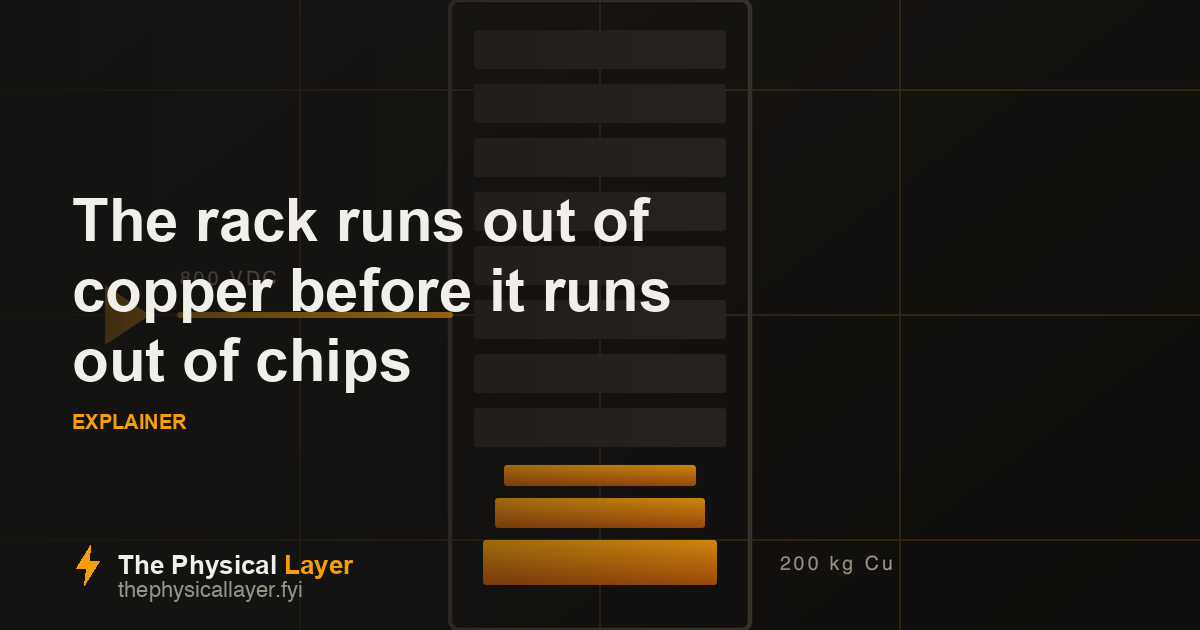
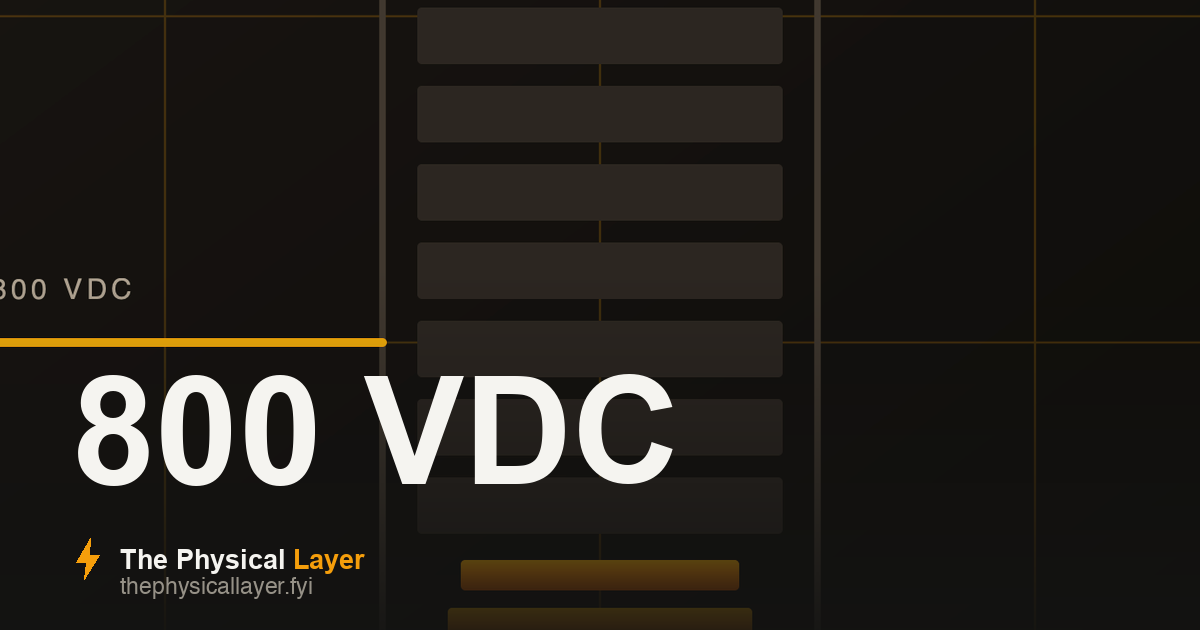
Social cards redesigned to read at LinkedIn thumbnail size
LinkedIn renders link previews at 128x72, where a full title is illegible.
Cards now lead with a 1-3 word label at ~150px over a zoomed, contrast-boosted
diagram, so the card reads at thumbnail size and still works large.

diff --git a/src/content.config.ts b/src/content.config.ts
@@ -6,7 +6,8 @@ const journal = defineCollection({
     title: z.string(),
     date: z.coerce.date(),
     summary: z.string(),                       // plain-English one-liner
-    category: z.string().default('Explainer'), // small label under the card, e.g. Explainer · Note · Analysis
+    category: z.string().default('Explainer'),
+    shortLabel: z.string().optional(),   // 1-3 words, shown huge on the social card so it reads at thumbnail size // small label under the card, e.g. Explainer · Note · Analysis
     cover: z.string().optional(),              // /covers/name.svg or .jpg — optional, a styled fallback renders without it
     tags: z.array(z.string()).default([]),
     draft: z.boolean().default(false),

diff --git a/brand/make-og.py b/brand/make-og.py
@@ -1,44 +1,50 @@
 #!/usr/bin/env python3
-"""Regenerate public/og/<slug>.png from each piece's cover diagram.
-Run from the project root:  DYLD_FALLBACK_LIBRARY_PATH=/opt/homebrew/lib python3 brand/make-og.py"""
+"""Social cards, designed to stay legible at LinkedIn's 128x72 thumbnail.
+Run: DYLD_FALLBACK_LIBRARY_PATH=/opt/homebrew/lib python3 brand/make-og.py"""
 import cairosvg, io, glob, re, os
-from PIL import Image, ImageDraw, ImageFont
-W,H=1200,630; DARK=(19,19,18); AMBER=(245,158,11); WHITE=(240,239,234); MUTED=(150,145,135)
+from PIL import Image, ImageDraw, ImageFont, ImageEnhance
+W,H=1200,630; DARK=(19,19,18); AMBER=(245,158,11); WHITE=(245,244,240); MUTED=(150,145,135)
 TF='/System/Library/Fonts/Supplemental/Arial Bold.ttf'; SF='/System/Library/Fonts/Helvetica.ttc'
 def fm(p):
     s=open(p).read().split('---')[1]
     g=lambda k:(re.search(rf'^{k}:\s*"?(.+?)"?\s*$',s,re.M) or [None,''])[1]
-    return g('title'),g('cover'),g('category')
-def wrap(d,t,f,mw):
-    out=[];cur=''
-    for w in t.split():
-        x=(cur+' '+w).strip()
-        if d.textlength(x,font=f)<=mw: cur=x
-        else: out.append(cur);cur=w
-    if cur: out.append(cur)
-    return out
+    return g('title'),g('cover'),g('shortLabel'),g('category')
 def bolt(d,cx,cy,s,fill):
     pts=[(.55,0),(.28,.45),(.48,.45),(.43,.77),(.72,.32),(.53,.32),(.55,0)]
     d.polygon([(cx+(x-.5)*s,cy+(y-.4)*s) for x,y in pts],fill=fill)
 os.makedirs('public/og',exist_ok=True)
 for md in sorted(glob.glob('src/content/journal/*.md')):
-    pid=os.path.basename(md)[:-3]; title,cover,cat=fm(md)
+    pid=os.path.basename(md)[:-3]; title,cover,label,cat=fm(md)
+    label=(label or cat or 'JOURNAL').upper()
     card=Image.new('RGB',(W,H),DARK)
     if cover and os.path.exists('public'+cover):
-        art=Image.open(io.BytesIO(cairosvg.svg2png(url='public'+cover,output_width=1600,output_height=1200))).convert('RGB')
-        r=max(W/art.width,H/art.height); art=art.resize((max(W,int(art.width*r)),max(H,int(art.height*r))),Image.LANCZOS)
-        l=(art.width-W)//2; t=(art.height-H)//2; card.paste(art.crop((l,t,l+W,t+H)),(0,0))
+        # render big and zoom in: the motif must read at 128px wide
+        art=Image.open(io.BytesIO(cairosvg.svg2png(url='public'+cover,output_width=2000,output_height=1500))).convert('RGB')
+        r=max(W/art.width,H/art.height)*1.45          # zoom past fill so the graphic is large
+        art=art.resize((int(art.width*r),int(art.height*r)),Image.LANCZOS)
+        l=(art.width-W)//2; t=int((art.height-H)*0.46)
+        art=art.crop((l,t,l+W,t+H))
+        art=ImageEnhance.Contrast(art).enhance(1.18)  # survive heavy downscaling
+        card.paste(art,(0,0))
+    # bottom scrim only: keeps the graphic visible, guarantees the word reads
     sc=Image.new('L',(W,H),0); sd=ImageDraw.Draw(sc)
-    for x in range(W): sd.line([(x,0),(x,H)],fill=int(238*(max(0.0,1.0-(x/(W*.80)))**1.25)))
-    card=Image.composite(Image.new('RGB',(W,H),DARK),card,sc); d=ImageDraw.Draw(card)
-    for size in (60,56,52,48,44,40):
-        f=ImageFont.truetype(TF,size); lines=wrap(d,title,f,660)
-        if len(lines)<=4: break
-    y=H//2-(len(lines)*(size+10))//2-24
-    for ln in lines: d.text((72,y),ln,font=f,fill=WHITE); y+=size+10
-    d.text((72,y+14),(cat or 'Journal').upper(),font=ImageFont.truetype(TF,20),fill=AMBER)
-    bolt(d,88,H-64,52,AMBER); bf=ImageFont.truetype(TF,26); mf=ImageFont.truetype(SF,22)
-    d.text((118,H-80),"The Physical",font=bf,fill=WHITE)
-    d.text((118+d.textlength("The Physical ",font=bf),H-80),"Layer",font=bf,fill=AMBER)
-    d.text((118,H-50),"thephysicallayer.fyi",font=mf,fill=MUTED)
-    card.save(f'public/og/{pid}.png',optimize=True); print('wrote',pid)
+    for y in range(H):
+        f=max(0.0,(y-H*0.42)/(H*0.58)); sd.line([(0,y),(W,y)],fill=int(232*(f**1.15)))
+    card=Image.composite(Image.new('RGB',(W,H),DARK),card,sc)
+    d=ImageDraw.Draw(card)
+    size=150
+    while size>70:
+        f=ImageFont.truetype(TF,size)
+        if d.textlength(label,font=f)<=W-150: break
+        size-=6
+    f=ImageFont.truetype(TF,size)
+    d.text((72,H-size-132),label,font=f,fill=WHITE)
+    bolt(d,88,H-70,54,AMBER)
+    bf=ImageFont.truetype(TF,27); mf=ImageFont.truetype(SF,23)
+    d.text((120,H-86),"The Physical",font=bf,fill=WHITE)
+    d.text((120+d.textlength("The Physical ",font=bf),H-86),"Layer",font=bf,fill=AMBER)
+    d.text((120,H-54),"thephysicallayer.fyi",font=mf,fill=MUTED)
+    card.save(f'public/og/{pid}.png',optimize=True)
+    # prove it reads small: save a 128px proof next to it
+    card.resize((128,72),Image.LANCZOS).save(f'/tmp/proof_{pid}.png')
+    print(f'{pid}: "{label}" @{size}px  {os.path.getsize(f"public/og/{pid}.png")//1024}KB')

diff --git a/src/content/journal/ten-thousand-chips-one-thought.md b/src/content/journal/ten-thousand-chips-one-thought.md
@@ -2,6 +2,7 @@
 title: "Ten thousand chips, one thought: why the network costs almost as much as the chips"
 date: 2026-09-18
 summary: "A frontier AI model is too big to fit on any single chip, so it's sliced across thousands of them, and they have to swap notes for every single word. If the wiring between them is even slightly slow, the most expensive chips ever built sit idle. That's why a huge slice of every AI dollar goes on cables and light."
+shortLabel: "THE NETWORK"
 category: "Explainer"
 cover: "/covers/network.svg"
 tags: ["networking", "optics", "the-stack"]

diff --git a/src/content/journal/cooling-is-half-the-job.md b/src/content/journal/cooling-is-half-the-job.md
@@ -2,6 +2,7 @@
 title: "Electricity doesn't get used up making AI. It turns into heat. Cooling is half the job."
 date: 2026-09-18
 summary: "Almost every watt that goes into an AI chip comes out as heat, and one cabinet now gives off as much as eighty space heaters. Air can't carry that away. So the biggest plumbing change in the history of data centres is happening right now, and it doesn't care which chip company wins."
+shortLabel: "COOLING"
 category: "Explainer"
 cover: "/covers/cooling.svg"
 tags: ["cooling", "data-centres", "liquid"]

diff --git a/src/content/journal/the-countertop-is-the-bottleneck.md b/src/content/journal/the-countertop-is-the-bottleneck.md
@@ -2,6 +2,7 @@
 title: "The chip isn't slow. Fetching is. Why memory became the bottleneck"
 date: 2026-09-18
 summary: "When an AI writes its reply, the arithmetic is fast and the waiting for data is slow. So the industry started stacking memory chips into little towers glued right next to the processor. It's a clever fix, it's expensive, and it explains a lot about which parts of the AI supply chain are actually scarce."
+shortLabel: "MEMORY"
 category: "Explainer"
 cover: "/covers/memory.svg"
 tags: ["memory", "HBM", "the-stack"]

diff --git a/src/content/journal/the-two-seconds-after-you-hit-send.md b/src/content/journal/the-two-seconds-after-you-hit-send.md
@@ -2,6 +2,7 @@
 title: "What actually happens in the two seconds after you hit send"
 date: 2026-09-18
 summary: "When you ask an AI a question, no answer is waiting on a shelf. A building the size of a factory manufactures every word for you, one at a time, in real time. Understanding that one fact explains why the whole industry is suddenly about electricity, water and copper."
+shortLabel: "TWO SECONDS"
 category: "Explainer"
 cover: "/covers/two-seconds.svg"
 tags: ["explainer", "inference", "the-stack"]

diff --git a/src/content/journal/the-rack-runs-out-of-copper.md b/src/content/journal/the-rack-runs-out-of-copper.md
@@ -2,6 +2,7 @@
 title: "The rack runs out of copper before it runs out of chips"
 date: 2026-09-18
 summary: "AI computers are getting so power-hungry that the copper bars carrying electricity inside each cabinet would soon weigh more than the computers. So the industry is about to change how power enters the building. That change, not the chips, is what decides who gets to build."
+shortLabel: "800 VDC"
 category: "Explainer"
 cover: "/covers/copper-rack.svg"
 tags: ["power", "data-centres", "800VDC"]

diff --git a/src/content/journal/the-queue-not-the-chip.md b/src/content/journal/the-queue-not-the-chip.md
@@ -2,6 +2,7 @@
 title: "The queue, not the chip, is what's holding AI back"
 date: 2026-08-15
 summary: "Everyone watches the chip supply. Almost nobody watches the queue to plug a data centre into the grid. But a chip order arrives in months, and a substation takes years. The scarce thing is a finished connection to the wires, and it isn't priced like it's scarce."
+shortLabel: "THE QUEUE"
 category: "Analysis"
 cover: "/covers/queue.svg"
 tags: ["power", "grid", "johor", "singapore"]
